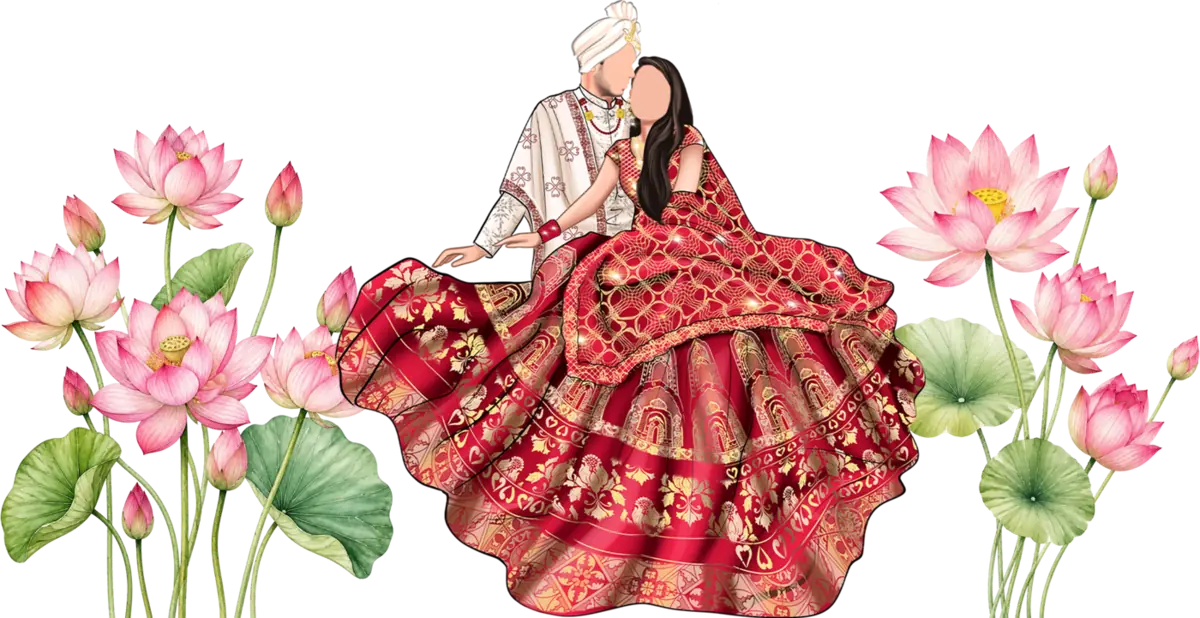
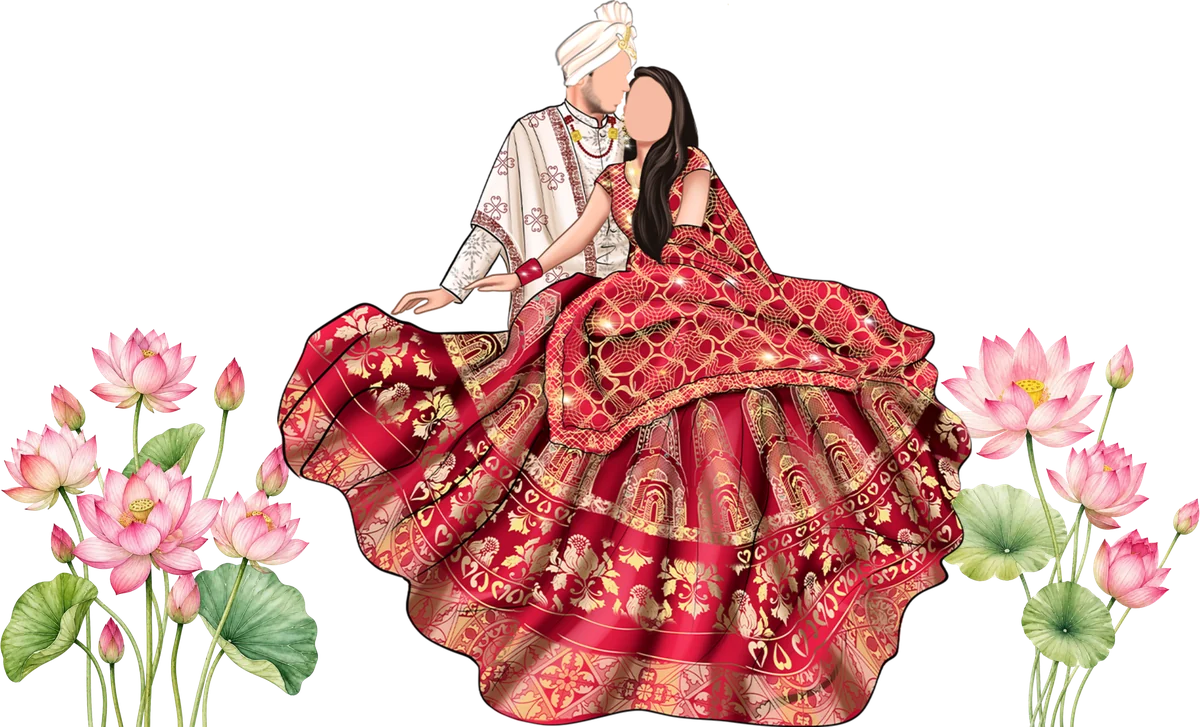
Flat-style Haldi scene, rebalanced cover, smaller hero florals
Claude-Session: https://claude.ai/code/session_017GcfSBjfveMfY8L2d8GX4C

diff --git a/css/style.css b/css/style.css
@@ -545,7 +545,7 @@ body::after {
    Printed-card artwork: Ganpati, couple scenes
    ========================================================================== */
 /* opening screen: the card's first page — couple between lotuses, standing on the bottom edge */
-.intro { --scene-h: min(32vh, calc(min(100vw, 760px) * .515)); }
+.intro { --scene-h: min(32vh, calc(min(100vw, 760px) * .606)); }
 .intro__inner { padding-bottom: calc(var(--scene-h) * .85); }
 .intro__scene {
   position: absolute; left: 50%; bottom: 0; translate: -50% 0; z-index: 1;
@@ -608,7 +608,7 @@ body::after {
 /* ---------- Hero: hanging rose & jasmine sprays in the top corners ---------- */
 .hero__content { position: relative; z-index: 1; }
 .hero__spray {
-  position: absolute; top: 0; z-index: 0; width: min(40vw, 20vh, 330px); height: auto; pointer-events: none;
+  position: absolute; top: 0; z-index: 0; width: min(28vw, 15vh, 230px); height: auto; pointer-events: none;
   opacity: 0; translate: 0 -24px; filter: drop-shadow(0 6px 18px rgba(20, 8, 10, .25));
 }
 .hero__spray--left  { left: -4%; }
@@ -618,6 +618,6 @@ body::after {
 .hero::after { content: ""; position: absolute; left: 0; right: 0; top: 0; height: 130px; z-index: 0; pointer-events: none;
   background: linear-gradient(180deg, rgba(38, 13, 18, .62), rgba(38, 13, 18, 0)); }
 @media (min-width: 900px) {
-  .hero__spray { width: min(19vw, 290px); top: -5vh; }
+  .hero__spray { width: min(13vw, 200px); top: -3vh; }
   .hero__spray--left { left: -1.5%; } .hero__spray--right { right: -1.5%; }
 }

diff --git a/index.html b/index.html
@@ -67,7 +67,7 @@
   <div class="intro" id="intro" aria-hidden="false">
     <div class="intro__panel intro__panel--top"></div>
     <div class="intro__panel intro__panel--bottom"></div>
-    <img class="intro__scene" src="assets/flora/cover.webp" alt="" width="1200" height="618" aria-hidden="true" fetchpriority="high">
+    <img class="intro__scene" src="assets/flora/cover.webp" alt="" width="1200" height="727" aria-hidden="true" fetchpriority="high">
     <div class="intro__inner">
       <span class="sym sym--ganesh intro__ganesh" role="img" aria-label="Shri Ganesh"></span>
       <div class="monogram monogram--lg" aria-hidden="true">
@@ -259,7 +259,7 @@
     <p class="footer__tag" data-bind="couple.hashtag"></p>
     <div class="footer__contacts" id="contacts"></div>
     <p class="footer__sign" data-bind="signoff"></p>
-    <img class="footer__scene" src="assets/flora/cover.webp" alt="" width="1200" height="618" loading="lazy" decoding="async" aria-hidden="true">
+    <img class="footer__scene" src="assets/flora/cover.webp" alt="" width="1200" height="727" loading="lazy" decoding="async" aria-hidden="true">
   </footer>
 
   <!-- ============ LIGHTBOX ============ -->
